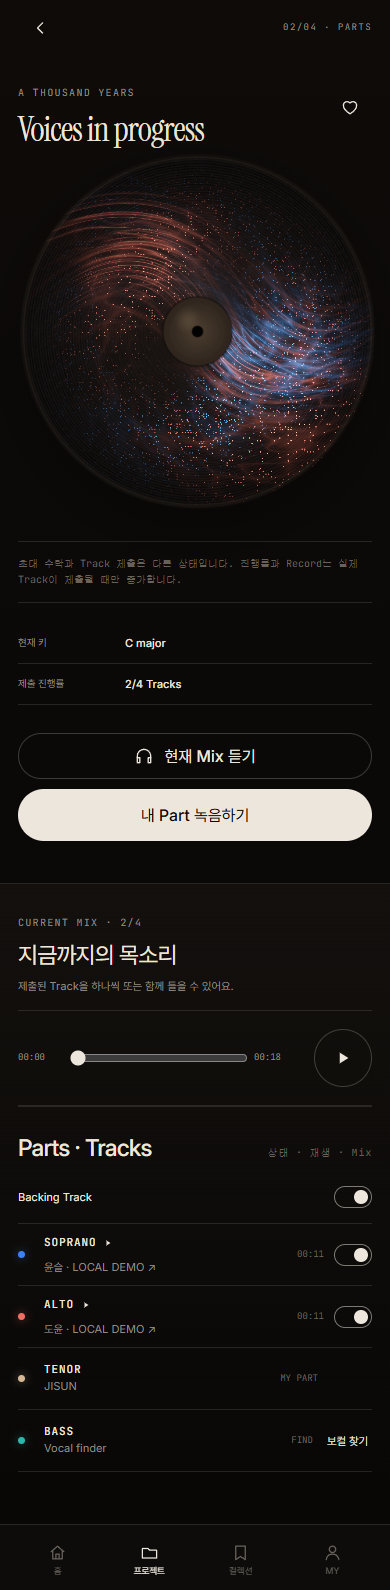
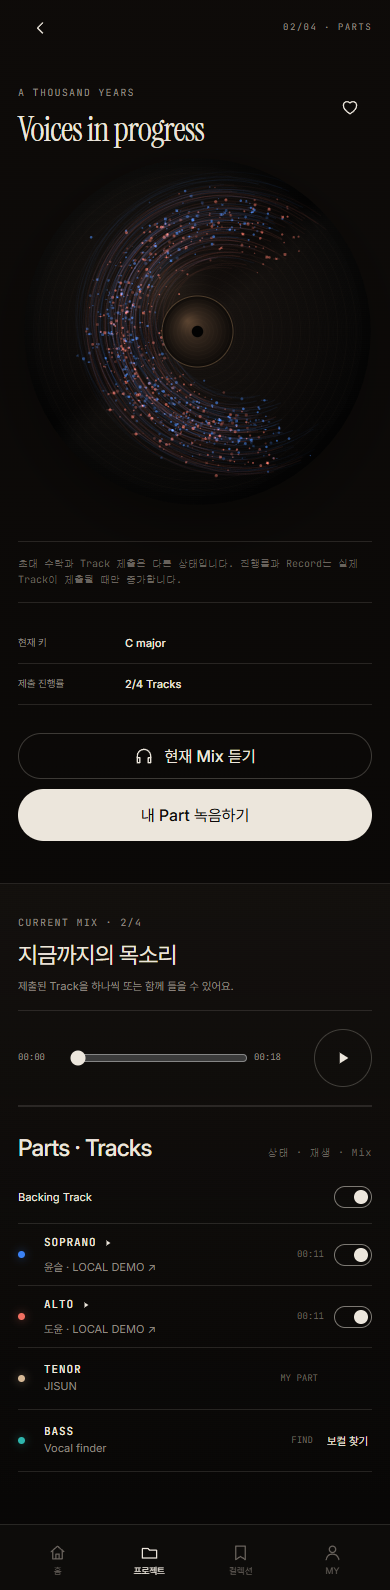
Rebuild resonance record as particle flow field

Changed region(s): [[0.1538, 0.1233, 0.9538, 0.3082]]

diff --git a/src/App.jsx b/src/App.jsx
@@ -186,6 +186,80 @@ function ResonanceRecord({ active = [true, false, true, false], layers = [], act
     if(layers.length)layers.forEach((layer,index)=>{const partIndex=PARTS.findIndex(part=>part.id===layer?.partId);slots[partIndex>=0?partIndex:index]=layer})
     else active.forEach((enabled,index)=>{if(enabled)slots[index]={partId:PARTS[index]?.id,seed:numericSeed+index*97,baseRadius:[.72,.59,.48,.36][index],spread:.1,turbulence:.72,opacity:.34,phase:index*1.47}})
     if(state==='recording'&&!slots[activePartIndex])slots[activePartIndex]={partId:PARTS[activePartIndex]?.id,seed:numericSeed+activePartIndex*997,baseRadius:[.72,.59,.48,.36][activePartIndex],spread:.09,turbulence:1,opacity:.3,phase:activePartIndex}
+    const particleContext=canvas.getContext('2d',{alpha:true})
+    if(particleContext){
+      const palette=[[62,137,255],[255,121,103],[232,197,153],[67,199,190]]
+      const seededRandom=(seedValue)=>{let value=(Math.abs(Math.floor(seedValue))||1)>>>0;return()=>{value+=0x6D2B79F5;let t=value;t=Math.imul(t^t>>>15,t|1);t^=t+Math.imul(t^t>>>7,t|61);return((t^t>>>14)>>>0)/4294967296}}
+      let animationFrame=0,lastFrame=0
+      const drawParticleRecord=(now=0)=>{
+        const size=canvas.clientWidth
+        if(size<8)return
+        const ratio=Math.min(window.devicePixelRatio||1,2),pixels=Math.round(size*ratio)
+        if(canvas.width!==pixels||canvas.height!==pixels){canvas.width=pixels;canvas.height=pixels}
+        const ctx=particleContext,c=pixels/2,discRadius=c*.965
+        ctx.setTransform(1,0,0,1,0,0);ctx.clearRect(0,0,pixels,pixels);ctx.save();ctx.beginPath();ctx.arc(c,c,discRadius,0,Math.PI*2);ctx.clip()
+        const vinyl=ctx.createRadialGradient(c*.82,c*.76,c*.04,c,c,discRadius)
+        vinyl.addColorStop(0,'#211a15');vinyl.addColorStop(.22,'#100c0a');vinyl.addColorStop(.72,'#090706');vinyl.addColorStop(1,'#030303');ctx.fillStyle=vinyl;ctx.fillRect(0,0,pixels,pixels)
+        ctx.globalCompositeOperation='screen'
+        for(let groove=0;groove<96;groove++){
+          const radius=discRadius*(.22+groove*.00765)
+          ctx.beginPath();ctx.arc(c,c,radius,0,Math.PI*2);ctx.strokeStyle=`rgba(188,164,136,${groove%7===0?.032:.012})`;ctx.lineWidth=Math.max(1,ratio*.32);ctx.stroke()
+        }
+        const liveAmount=state==='recording'?Math.min(1,Math.max(0,levelRef.current))*1.4:0
+        slots.forEach((layer,layerIndex)=>{
+          if(!layer)return
+          const layerSeed=Number(layer.seed??numericSeed+layerIndex*97)+numericSeed*.071
+          const random=seededRandom(layerSeed),color=palette[layerIndex]
+          const energy=Math.max(.12,Math.min(1,Number(layer.opacity??.34)*1.85))
+          const baseRadius=Math.max(.3,Math.min(.82,Number(layer.baseRadius??.55)))
+          const spread=Math.max(.055,Math.min(.24,Number(layer.spread??.1)))
+          const turbulence=Math.max(.2,Math.min(1.4,Number(layer.turbulence??.72)))
+          const live=layerIndex===activePartIndex?liveAmount:0
+          const direction=-1
+          const sharedOrigin=-.42+((numericSeed%29)/29-.5)*.18
+          const layerOffset=(layerIndex-1.5)*.22+(Number(layer.phase??0)%1)*.08
+          const strandCount=Math.round(38+energy*28+live*12)
+          const pointOnFlow=(t,offset,wobble=0)=>{
+            const inhale=Math.sin(Math.PI*t)
+            const radius=.77+(baseRadius-.55)*.13-inhale*(.25+spread*.42)+offset*(.42+spread*.9)+Math.sin(t*9.2+layerSeed*.017+wobble)*.018*turbulence
+            const angle=sharedOrigin+layerOffset+direction*(t*(4.65+turbulence*.28)+Math.sin(t*Math.PI)*.36)+Math.sin(t*5.4+wobble)*.028*turbulence+(state==='recording'&&layerIndex===activePartIndex?now*.00016*live:0)
+            return [c+Math.cos(angle)*discRadius*radius,c+Math.sin(angle)*discRadius*radius]
+          }
+          ctx.globalCompositeOperation='lighter'
+          for(let strand=0;strand<strandCount;strand++){
+            const normalized=(strand/(strandCount-1)-.5)
+            const offset=normalized*spread*3.2+(random()-.5)*spread*.5
+            const start=.02+random()*.13,end=.82+random()*.17,wobble=random()*Math.PI*2
+            ctx.beginPath()
+            for(let step=0;step<=54;step++){
+              const t=start+(end-start)*(step/54),point=pointOnFlow(t,offset,wobble)
+              if(step===0)ctx.moveTo(point[0],point[1]);else ctx.lineTo(point[0],point[1])
+            }
+            const prominence=.018+Math.pow(1-Math.abs(normalized),2)*(.045+energy*.045)+random()*.018
+            ctx.strokeStyle=`rgba(${color[0]},${color[1]},${color[2]},${prominence*(1+live*.65)})`
+            ctx.lineWidth=ratio*(.28+random()*.62+energy*.22);ctx.stroke()
+          }
+          const particleCount=Math.round(230+energy*260+live*100)
+          for(let particle=0;particle<particleCount;particle++){
+            const t=Math.pow(random(),.92)*.92+.025
+            const clustered=((random()+random()+random())/3-.5)*spread*3.9
+            const point=pointOnFlow(t,clustered,random()*6.283)
+            const flicker=.22+random()*.78,sizeDot=ratio*(.32+random()*(.72+energy*.64+live*.25))
+            ctx.beginPath();ctx.arc(point[0],point[1],sizeDot,0,Math.PI*2)
+            ctx.fillStyle=`rgba(${color[0]},${color[1]},${color[2]},${(.08+flicker*.5)*(1+live*.55)})`;ctx.fill()
+            if(random()>.9){ctx.beginPath();ctx.moveTo(point[0]-sizeDot*2.8,point[1]);ctx.lineTo(point[0]+sizeDot*2.8,point[1]);ctx.strokeStyle=`rgba(${color[0]},${color[1]},${color[2]},${.12+flicker*.28})`;ctx.lineWidth=Math.max(.45,ratio*.34);ctx.stroke()}
+          }
+        })
+        ctx.globalCompositeOperation='source-over'
+        const sheen=ctx.createLinearGradient(c*.28,c*.2,c*1.62,c*1.74);sheen.addColorStop(0,'rgba(255,236,206,.045)');sheen.addColorStop(.46,'rgba(255,236,206,0)');sheen.addColorStop(.53,'rgba(255,236,206,.025)');sheen.addColorStop(1,'rgba(255,236,206,0)');ctx.fillStyle=sheen;ctx.fillRect(0,0,pixels,pixels)
+        const hubRadius=discRadius*.205,hub=ctx.createRadialGradient(c-hubRadius*.28,c-hubRadius*.3,0,c,c,hubRadius);hub.addColorStop(0,'#5b4431');hub.addColorStop(.36,'#35281e');hub.addColorStop(1,'#0d0a08');ctx.beginPath();ctx.arc(c,c,hubRadius,0,Math.PI*2);ctx.fillStyle=hub;ctx.fill();ctx.strokeStyle='rgba(193,151,105,.34)';ctx.lineWidth=ratio;ctx.stroke()
+        for(let ring=1;ring<9;ring++){ctx.beginPath();ctx.arc(c,c,hubRadius*(ring/9),0,Math.PI*2);ctx.strokeStyle='rgba(204,166,122,.035)';ctx.lineWidth=Math.max(.5,ratio*.3);ctx.stroke()}
+        ctx.beginPath();ctx.arc(c,c,discRadius*.033,0,Math.PI*2);ctx.fillStyle='#020202';ctx.fill();ctx.restore()
+      }
+      const draw=(now=0)=>{if(now&&now-lastFrame<50){animationFrame=requestAnimationFrame(draw);return}lastFrame=now;drawParticleRecord(now);if(state==='recording'||state==='processing')animationFrame=requestAnimationFrame(draw)}
+      draw();const particleObserver=new ResizeObserver(()=>drawParticleRecord(performance.now()));particleObserver.observe(canvas)
+      return()=>{particleObserver.disconnect();cancelAnimationFrame(animationFrame)}
+    }
     const gl=canvas.getContext('webgl',{alpha:true,antialias:true,premultipliedAlpha:true})
     let raf=0,lastPaint=0
     if(!gl){
